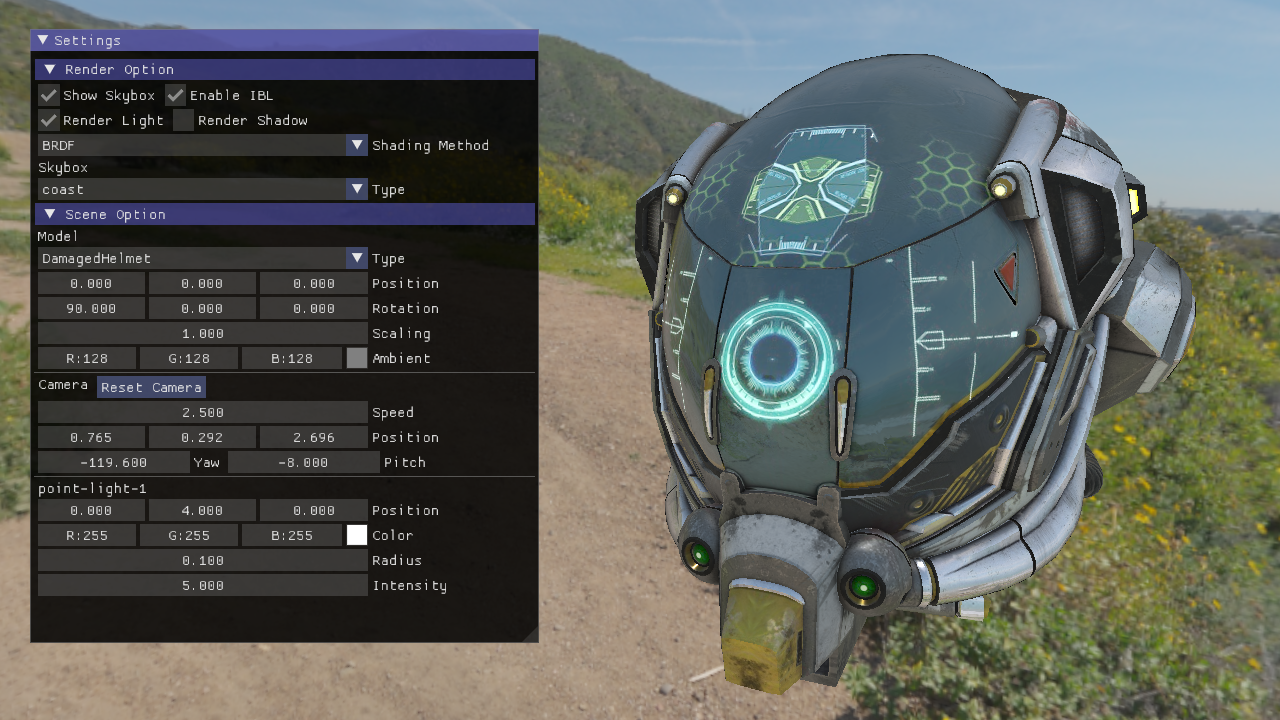
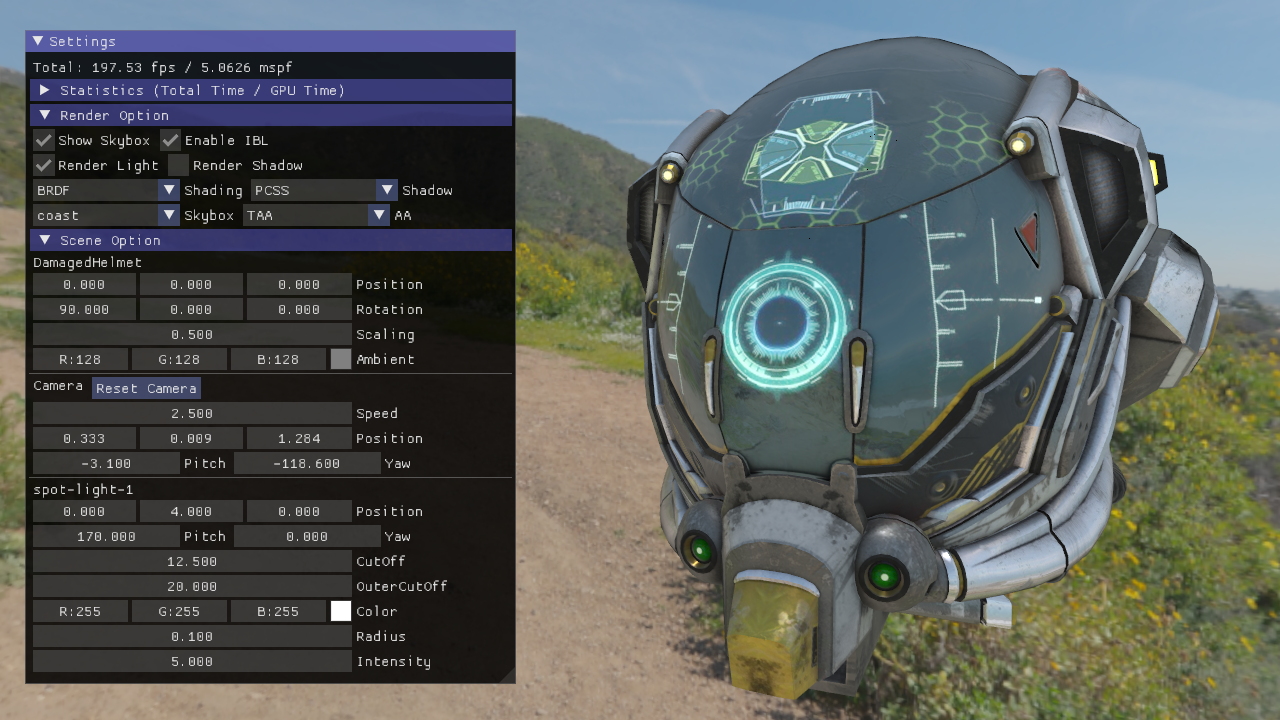
Project: Update README for aa scene showcase

diff --git a/README.md b/README.md
@@ -10,7 +10,8 @@ RIO is a real-time rasterization renderer with OpenGL backend. It aims to implem
 #### Basic
 
 - [x] User Interface with Control Panel and Camera Operation
-- [x] Frame Tracer with Total Time and GPU Time
+- [x] Pass Tracer with Total Time and GPU Time
+- [x] Custom Scene Representation loaded from Json
 
 #### Shading
 
@@ -24,6 +25,12 @@ RIO is a real-time rasterization renderer with OpenGL backend. It aims to implem
 - [x] Shadow Mapping with Percentage Closer Filtering (PCF)
 - [x] Percentage Closer Soft Shadow (PCSS)
 - [x] Variance Soft Shadow Mapping (VSSM)
+
+#### Anti-Aliasing
+
+- [x] Fast Approximate Anti-Aliasing (FXAA)
+- [x] Subpixel Morphological Antialiasing (SMAA)
+- [x] Temporal Anti-Aliasing (TAA)
 
 ## Gallery
 
@@ -45,6 +52,12 @@ RIO is a real-time rasterization renderer with OpenGL backend. It aims to implem
 | ------------------------------------------------------------ | ------------------------------------------------------------ | ------------------------------------------------------------ | ------------------------------------------------------------ | ------------------------------------------------------------ |
 | <img src="screenshot\shadow\basic.png" alt="basic" style="zoom:25%;" /> | <img src="screenshot\shadow\pcf.png" alt="pcf" style="zoom:25%;" /> | <img src="screenshot\shadow\pcss.png" alt="pcss" style="zoom:25%;" /> | <img src="screenshot\shadow\vsm.png" alt="vsm" style="zoom:25%;" /> | <img src="screenshot\shadow\vssm.png" alt="vssm" style="zoom:25%;" /> |
 
+#### Anti-Aliasing
+
+| No AA                                           | FXAA                                            | SMAA                                            | TAA                                           |
+| ----------------------------------------------- | ----------------------------------------------- | ----------------------------------------------- | --------------------------------------------- |
+| ![none](D:\Projects\RIO\screenshot\aa\none.png) | ![fxaa](D:\Projects\RIO\screenshot\aa\fxaa.png) | ![smaa](D:\Projects\RIO\screenshot\aa\smaa.png) | ![taa](D:\Projects\RIO\screenshot\aa\taa.png) |
+
 ## Usage
 
 #### **Build**
@@ -58,7 +71,7 @@ Since all dependencies are included with source code, you can build RIO freely w
 The image above shows the RIO interface with ImGui. You can modify several **render options** like
 
 - Show skybox / Enable IBL / Render Light Model / Render shadow, etc.
-- Switch shading method / Switch shadow method / Switch skybox.
+- Switch shading method / Switch shadow method / Switch anti-aliasing method / Switch skybox.
 
 You can modify **scene options** with a camera, all lights, and models with
 
